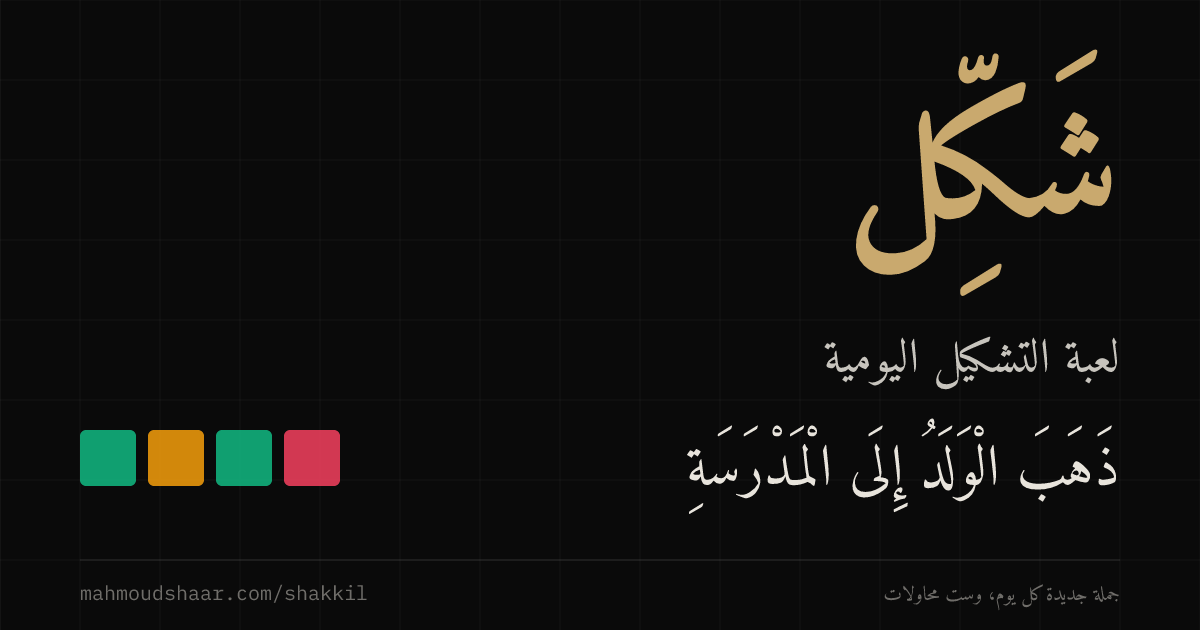
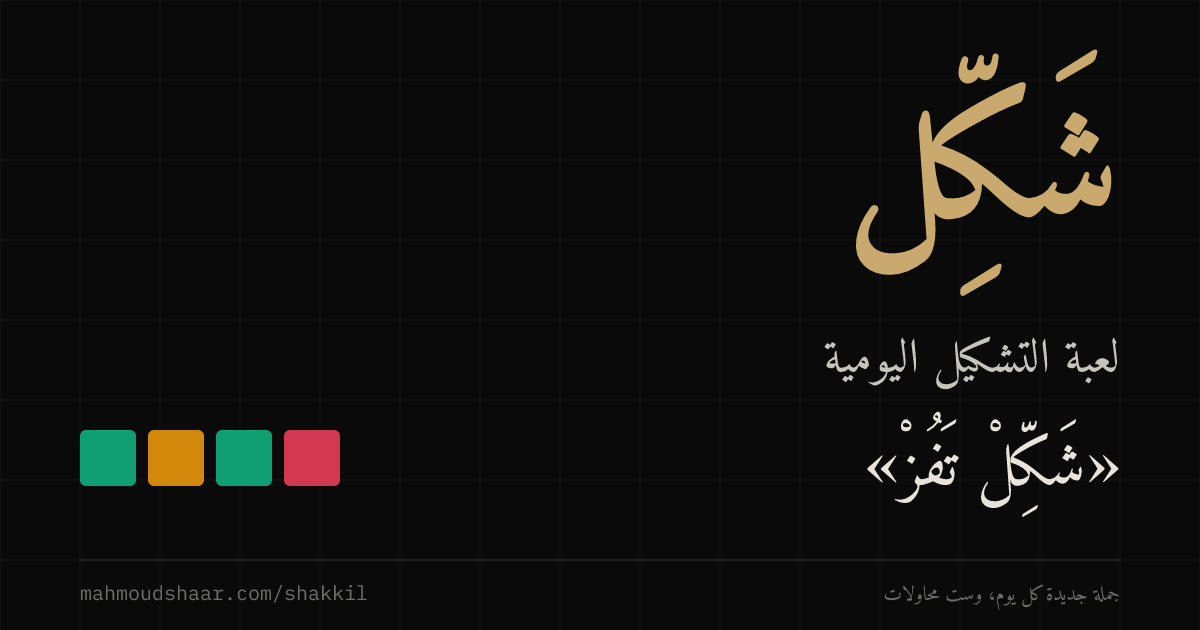
Shakkil link preview: show a reserved tagline instead of puzzle #1 (#10)
The preview image showed puzzle #1's fully diacritized answer (ذَهَبَ الْوَلَدُ
إِلَى الْمَدْرَسَةِ), spoiling launch day for anyone who saw the link.

- og image now shows «شَكِّلْ تَفُزْ» instead
- content/shakkil/rejected.yaml reserves it; the puzzle check now fails for
  any puzzle matching a rejected or reserved sentence
- review page's reject keeps rejected.yaml's comment header

Changed region(s): [[0.555, 0.6635, 0.925, 0.8143], [0.6167, 0.6635, 0.6783, 0.6937]]

diff --git a/tools/shakkil/content.ts b/tools/shakkil/content.ts
@@ -13,6 +13,7 @@ import { compilePuzzle, type Puzzle, type PuzzleSource } from "../../src/pages/s
 
 export const PUZZLE_DIR = resolve(import.meta.dirname, "../../content/shakkil/puzzles");
 export const SCHEDULE_FILE = resolve(import.meta.dirname, "../../content/shakkil/schedule.yaml");
+export const REJECTED_FILE = resolve(import.meta.dirname, "../../content/shakkil/rejected.yaml");
 export const FILE_RE = /^(\d{4})\.yaml$/;
 const KNOWN_KEYS = new Set(["text", "irab", "alts", "author", "source"]);
 
@@ -94,6 +95,17 @@ export function loadPuzzleFile(path: string): FileResult {
   return { file, id, number: 0, source, puzzle, errors: [...errors, ...puzzleErrors] };
 }
 
+const sentenceKey = (text: string) => text.normalize("NFC").replace(/[«»"']/g, "").trim();
+
+/** Rejected or reserved sentences (content/shakkil/rejected.yaml), normalized for comparison. */
+export function readRejected(): Set<string> {
+  if (!existsSync(REJECTED_FILE)) return new Set();
+  const data = parseYaml(readFileSync(REJECTED_FILE, "utf8"));
+  return new Set(
+    (Array.isArray(data) ? data : []).map((e: { text?: unknown }) => String(e?.text ?? "")).filter(Boolean).map(sentenceKey),
+  );
+}
+
 /**
  * Loads every puzzle in schedule (day) order, numbering them by day, and checks the set as a whole
  * (schedule entries, duplicate sentences).
@@ -108,10 +120,14 @@ export function loadAll(dir = PUZZLE_DIR, schedule = readSchedule()): { results:
     if (r.puzzle) r.puzzle.number = k + 1;
     return r;
   });
+  const rejected = readRejected();
   const seen = new Map<string, string>();
   for (const r of results) {
     const key = r.source?.text?.normalize("NFC").trim();
     if (!key) continue;
+    if (rejected.has(sentenceKey(key))) {
+      setErrors.push(`${r.file}: الجملة مرفوضة أو محجوزة في rejected.yaml / sentence is rejected or reserved in rejected.yaml`);
+    }
     if (seen.has(key)) setErrors.push(`جملة مكررة في ${seen.get(key)} و ${r.file} / duplicate sentence`);
     else seen.set(key, r.file);
   }

diff --git a/tools/shakkil/queue.ts b/tools/shakkil/queue.ts
@@ -14,10 +14,9 @@ import { basename, join, resolve } from "node:path";
 import { pathToFileURL } from "node:url";
 import { parse, stringify } from "yaml";
 import { compilePuzzle } from "../../src/pages/shakkil/core/puzzle";
-import { FILE_RE, PUZZLE_DIR, puzzleFiles } from "./content";
+import { FILE_RE, PUZZLE_DIR, REJECTED_FILE, puzzleFiles } from "./content";
 
 export const QUEUE_DIR = resolve(import.meta.dirname, "../../content/shakkil/queue");
-export const REJECTED_FILE = resolve(import.meta.dirname, "../../content/shakkil/rejected.yaml");
 
 export interface Candidate {
   text: string;
@@ -106,9 +105,16 @@ export function approve(id: string, edited: Candidate): { number: number; file: 
 
 export function reject(id: string, reason: string): void {
   const item = removeFromQueue(id);
-  const list = existsSync(REJECTED_FILE) ? (parse(readFileSync(REJECTED_FILE, "utf8")) ?? []) : [];
+  const raw = existsSync(REJECTED_FILE) ? readFileSync(REJECTED_FILE, "utf8") : "";
+  // Keep the file's comment header; yaml.stringify would drop it.
+  const header = raw
+    .split(/\r?\n/)
+    .filter((l) => l.startsWith("#"))
+    .join("\n");
+  const list = (parse(raw) as unknown[] | null) ?? [];
   list.push({ text: item.text, reason: reason.trim() || undefined });
-  writeFileSync(REJECTED_FILE, stringify(list, { lineWidth: 0 }), "utf8");
+  const body = stringify(list, { lineWidth: 0 });
+  writeFileSync(REJECTED_FILE, header ? `${header}\n${body}` : body, "utf8");
 }
 
 if (process.argv[1] && import.meta.url === pathToFileURL(process.argv[1]).href) {

diff --git a/tools/og.ts b/tools/og.ts
@@ -117,10 +117,12 @@ const IMAGES: Record<string, string> = {
   <text x="80" y="480" font-family="${MONO}" font-size="26" fill="${PAPER}" fill-opacity="0.6">1,400+ World Bank indicators · every country ranked</text>
   ${footer("mahmoudshaar.com/explore", "World Bank WDI")}`),
 
+  // The sample line must never be a real puzzle (it would spoil it); it is reserved in
+  // content/shakkil/rejected.yaml.
   shakkil: frame(`
   <text x="1120" y="215" text-anchor="end" font-family="Amiri" font-weight="700" font-size="160" fill="${GOLD}">شَكِّل</text>
   <text x="1120" y="372" text-anchor="end" font-family="Amiri" font-size="48" fill="${PAPER}" fill-opacity="0.85">لعبة التشكيل اليومية</text>
-  <text x="1120" y="485" text-anchor="end" font-family="Amiri" font-size="58" fill="${PAPER}">ذَهَبَ الْوَلَدُ إِلَى الْمَدْرَسَةِ</text>
+  <text x="1120" y="485" text-anchor="end" font-family="Amiri" font-size="64" fill="${PAPER}">«شَكِّلْ تَفُزْ»</text>
   <g>
     <rect x="80" y="430" width="56" height="56" rx="6" fill="#10b981" fill-opacity="0.85"/>
     <rect x="148" y="430" width="56" height="56" rx="6" fill="#f59e0b" fill-opacity="0.85"/>

diff --git a/tools/shakkil/schedule.test.ts b/tools/shakkil/schedule.test.ts
@@ -1,5 +1,5 @@
 import { describe, expect, it } from "vitest";
-import { loadAll, normalizeId, parseSchedule, resolveOrder } from "./content";
+import { loadAll, normalizeId, parseSchedule, readRejected, resolveOrder } from "./content";
 import { buildReport } from "./pr-report";
 import { dateOfDay, moveTo } from "./schedule";
 
@@ -59,5 +59,11 @@ describe("PR report locking", () => {
     const ctx = { baseOrder: ids, locked: 3 };
     expect(buildReport([{ status: "deleted", file: `${ids[5]}.yaml` }], results, setErrors, ctx).ok).toBe(true);
     expect(buildReport([{ status: "deleted", file: `${ids[1]}.yaml` }], results, setErrors, ctx).ok).toBe(false);
+  });
+});
+
+describe("rejected sentences", () => {
+  it("reserves the link-preview tagline", () => {
+    expect(readRejected().has("شَكِّلْ تَفُزْ".normalize("NFC"))).toBe(true);
   });
 });
